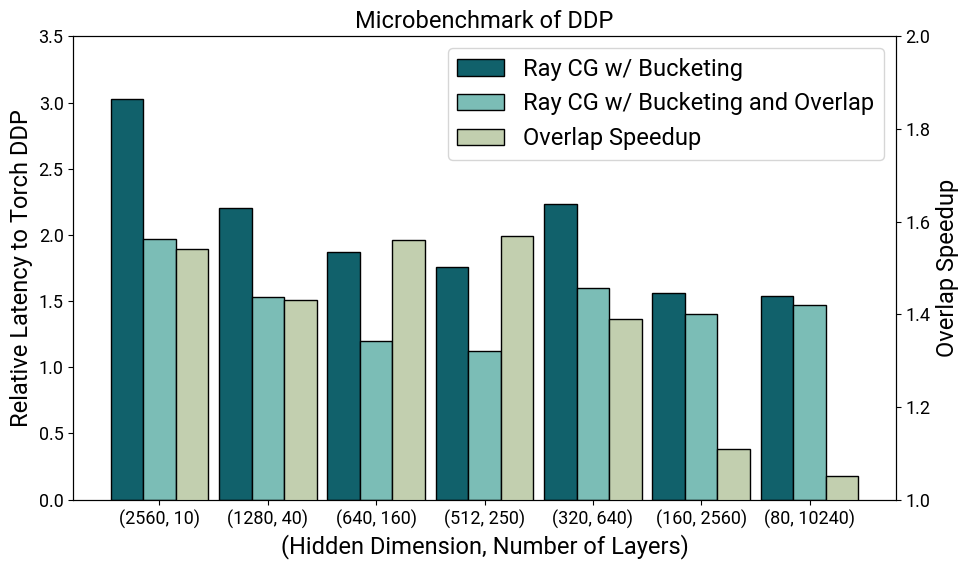
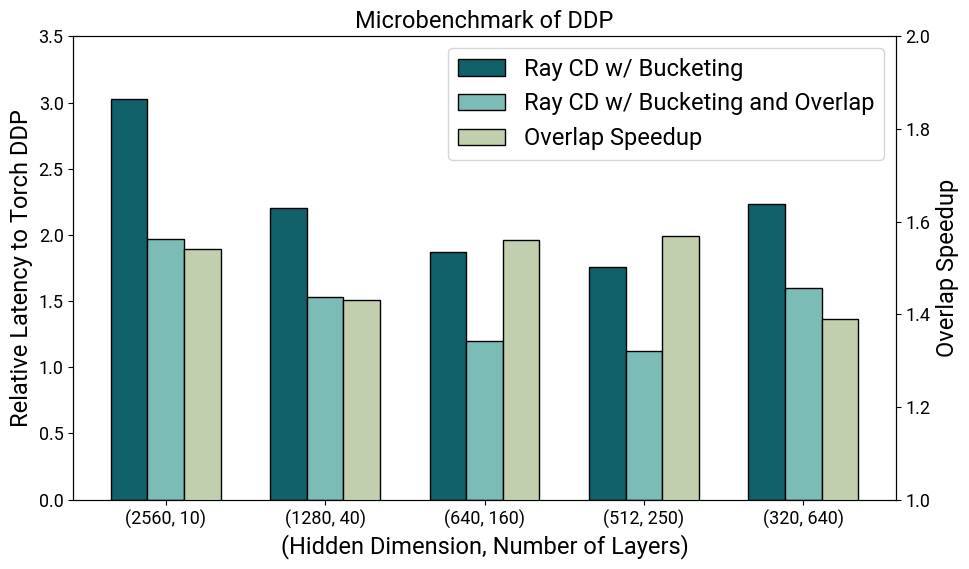
test: Add epoch 20 size 500mb

Changed region(s): [[0.1238, 0.1793, 0.8978, 0.9262], [0.5263, 0.0896, 0.8978, 0.2689]]

diff --git a/python/ray/experimental/ddp/src/plots/same_size.py b/python/ray/experimental/ddp/src/plots/same_size.py
@@ -7,11 +7,12 @@ import pandas as pd
 from matplotlib import font_manager
 
 pwd = "/home/wxdeng/Ray-Sea2Sky/python/ray/experimental/ddp"
-version = "0110"
+version = "0111_e20"
 
 args: Dict[str, Any] = {}
 args["layer_size_values"] = [2560, 1280, 640, 512, 320, 160, 80]
-args["num_layers_values"] = [10, 40, 160, 250, 640, 2560, 10240]
+# args["num_layers_values"] = [10, 40, 160, 250, 640, 2560, 10240]
+args["num_layers_values"] = [20, 80, 320, 500, 1280, 5120, 20480]
 args["torch_ddp"] = f"{pwd}/results/xuhui/torch_ddp/grids/{version}"
 args["ray_no_allreduce"] = f"{pwd}/results/xuhui/ray_no_allreduce/grids/{version}"
 args["ray_bucketing"] = f"{pwd}/results/xuhui/ray_bucketing_unify/grids/{version}"
@@ -33,6 +34,8 @@ os.makedirs(os.path.dirname(args["table"]), exist_ok=True)
 
 data = []
 for ls, nl in zip(args["layer_size_values"], args["num_layers_values"]):
+    if ls < 320:
+        continue
     row = {
         "layer_size": ls,
         "num_layers": nl,
@@ -89,13 +92,13 @@ fig, ax1 = plt.subplots(figsize=(10, 6))
 ax2 = ax1.twinx()
 
 x = np.arange(len(df))
-width = 0.3
+width = 0.23
 
 bars1 = ax1.bar(
     x - width,
     df["relative_ray_bucketing"],
     width,
-    label="Ray CG w/ Bucketing",
+    label="Ray CD w/ Bucketing",
     color="#11616B",
     edgecolor="black",
     linewidth=1,
@@ -105,7 +108,7 @@ bars2 = ax1.bar(
     x,
     df["relative_ray_bucketing_overlapping"],
     width,
-    label="Ray CG w/ Bucketing and Overlap",
+    label="Ray CD w/ Bucketing and Overlap",
     color="#7BBDB6",
     edgecolor="black",
     linewidth=1,
